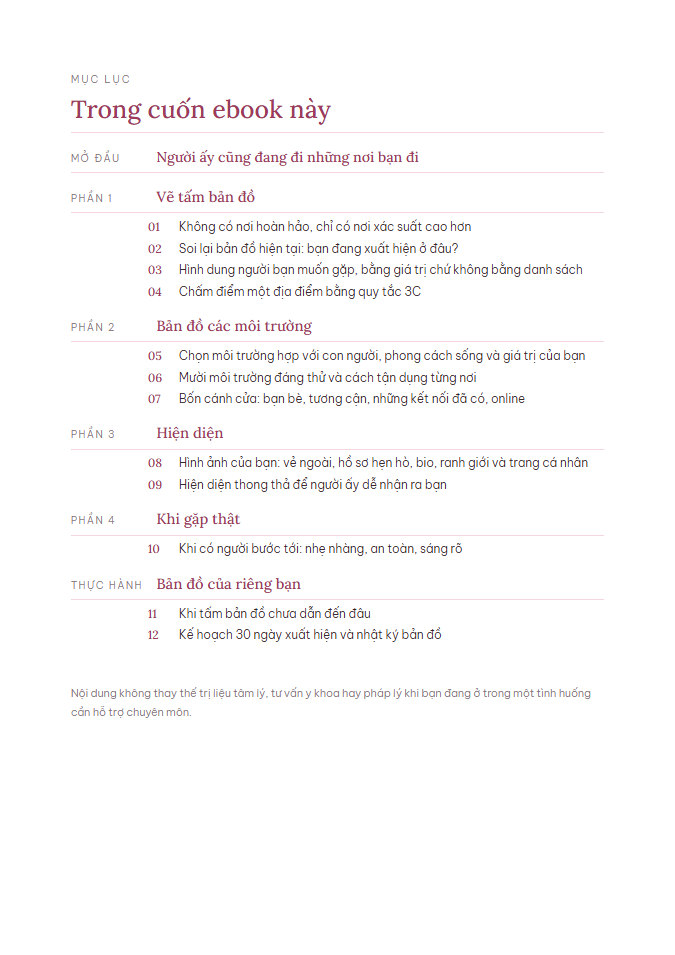
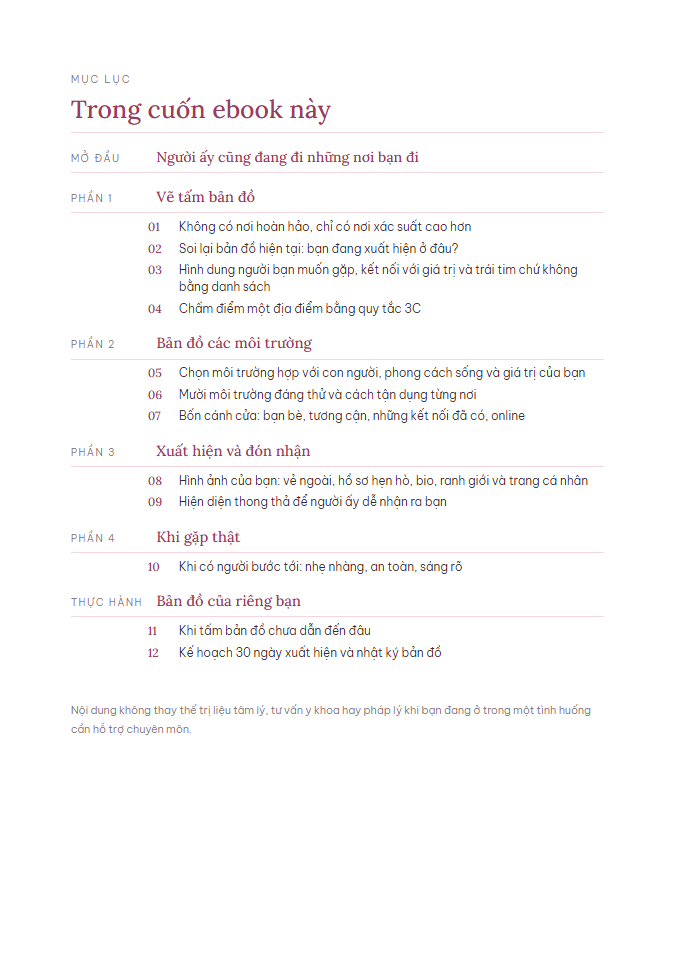
Gift showcase: real ebook covers and lucky-gift Ebook Kien Tao May Man
- Use real cover images for both ebooks, refreshed TOC peek page
- Add Ebook 1 as a "qua may man" (chance to receive) card and benefit entry
- Workbook card becomes a wide row

diff --git a/index.html b/index.html
@@ -397,6 +397,12 @@ p { color: var(--text-muted); }
 .gift-card ul { list-style: none; padding: 0; margin: 0; text-align: left; }
 .gift-card li { position: relative; font-size: 0.9rem; color: var(--text); padding: 6px 0 6px 22px; border-top: 1px dashed var(--border); line-height: 1.5; }
 .gift-card li::before { content: "✦"; position: absolute; left: 2px; top: 6px; color: var(--accent); font-size: 0.8rem; }
+.gift-card--wide { grid-column: 1 / -1; display: grid; grid-template-columns: 300px 1fr; column-gap: 24px; align-items: center; text-align: left; padding: 26px 28px; }
+.gift-card--wide .gift-tag { grid-column: 2; justify-self: start; }
+.gift-card--wide .gift-visual { grid-column: 1; grid-row: 1 / span 4; margin: 0; }
+.gift-card--wide h4, .gift-card--wide > p, .gift-card--wide ul { grid-column: 2; }
+@media (max-width: 720px) { .gift-card--wide { display: block; text-align: center; padding: 28px 22px 26px; } .gift-card--wide .gift-visual { margin: 4px auto 20px; } }
+.gift-card--lucky { border: 1.5px dashed var(--accent); }
 .gift-cta { text-align: center; margin-top: 30px; }
 .gift-cta p { font-size: 0.92rem; color: var(--text-muted); margin: 12px 0 0; }
 @media (max-width: 720px) { .gift-grid { grid-template-columns: 1fr; } .gift-visual { height: 236px; } }
@@ -969,7 +975,7 @@ footer p { color: inherit; }
         <h3>Những Gì Bạn Cầm Trên Tay Sau Workshop</h3>
       </div>
       <div class="gift-grid">
-        <div class="gift-card">
+        <div class="gift-card gift-card--wide">
           <span class="gift-tag">Có trong cả 2 vé</span>
           <div class="gift-visual">
             <img class="gift-back" src="img/workbook-inside.png" alt="Một trang bên trong Love Blueprint Workbook" loading="lazy">
@@ -988,7 +994,7 @@ footer p { color: inherit; }
           <span class="gift-tag">Chỉ có trong Vé VIP</span>
           <div class="gift-visual">
             <img class="gift-toc" src="img/ebook-toc.png" alt="Trang mục lục Ebook" loading="lazy">
-            <img class="gift-front" src="img/ebook-cover.png" alt="Bìa Ebook Để Người Bạn Đời Tương Lai Có Cơ Hội Tìm Thấy Bạn" loading="lazy" style="transform: rotate(2deg);">
+            <img class="gift-front" src="img/cover-ebook-2.jpg" alt="Bìa Ebook Để Người Bạn Đời Tương Lai Có Cơ Hội Tìm Thấy Bạn" loading="lazy" style="transform: rotate(2deg);">
           </div>
           <h4>Ebook: Để Người Bạn Đời Tương Lai Có Cơ Hội Tìm Thấy Bạn</h4>
           <p>Tấm bản đồ giúp bạn xuất hiện ở những nơi có xác suất gặp gỡ người phù hợp cao hơn.</p>
@@ -1000,12 +1006,34 @@ footer p { color: inherit; }
             <li><strong>Thực hành:</strong> kế hoạch 30 ngày để tấm bản đồ thành hành động.</li>
           </ul>
         </div>
+        <div class="gift-card gift-card--lucky">
+          <span class="gift-tag">✦ Quà may mắn · Có cơ hội nhận</span>
+          <div class="gift-visual">
+            <img class="gift-toc" src="img/ebook1-toc.png" alt="Trang mục lục Ebook Kiến Tạo May Mắn Trong Tình Yêu" loading="lazy">
+            <img class="gift-front" src="img/cover-ebook-1.jpg" alt="Bìa Ebook Kiến Tạo May Mắn Trong Tình Yêu" loading="lazy" style="transform: rotate(2deg);">
+          </div>
+          <h4>Ebook: Kiến Tạo May Mắn Trong Tình Yêu</h4>
+          <p>Những bí quyết may mắn Phương ứng dụng trong hành trình từ mong ước đến lời "em đồng ý".</p>
+          <ul>
+            <li><strong>Gỡ bỏ niềm tin giới hạn:</strong> nhìn lại 5 niềm tin về may mắn đang cản bước bạn.</li>
+            <li><strong>Cơ hội:</strong> mở những cánh cửa gặp gỡ và nói "Yes" thay vì để nỗi sợ đóng lại.</li>
+            <li><strong>Sự sẵn sàng:</strong> 3 trụ cột để bạn rạng rỡ, sáng rõ và hiện diện từ trái tim.</li>
+            <li><strong>Vun bồi may mắn:</strong> lòng biết ơn, gieo hạt và giữ hy vọng khi hoa chưa nở.</li>
+            <li><strong>Thực hành:</strong> workbook 7 ngày kiến tạo may mắn và cam kết 30 ngày.</li>
+          </ul>
+        </div>
       </div>
       <div class="gift-cta">
-        <a href="#offer" class="btn-primary">Nhận Cả Hai Cùng Vé VIP →</a>
+        <a href="#offer" class="btn-primary">Nhận Trọn Bộ Quà Tặng Cùng Vé VIP →</a>
         <p>Vé VIP 99.000đ gồm cả Workbook, Ebook, Video Training và The First 3 Dates.</p>
       </div>
     </div>
+    <div class="text-center mt-12">
+      <span class="eyebrow">Quà may mắn dành cho bạn</span>
+    </div>
+    <ul class="benefit-list mt-4">
+      <li><strong>Ebook Kiến Tạo May Mắn Trong Tình Yêu:</strong> Một món quà Phương dành riêng cho những bạn có mặt trong workshop, và bạn có cơ hội nhận. Những bí quyết may mắn Phương ứng dụng trong hành trình từ mong ước đến lời "em đồng ý".</li>
+    </ul>
     <div class="text-center mt-12">
       <span class="eyebrow">Đồng hành sau Workshop</span>
     </div>
